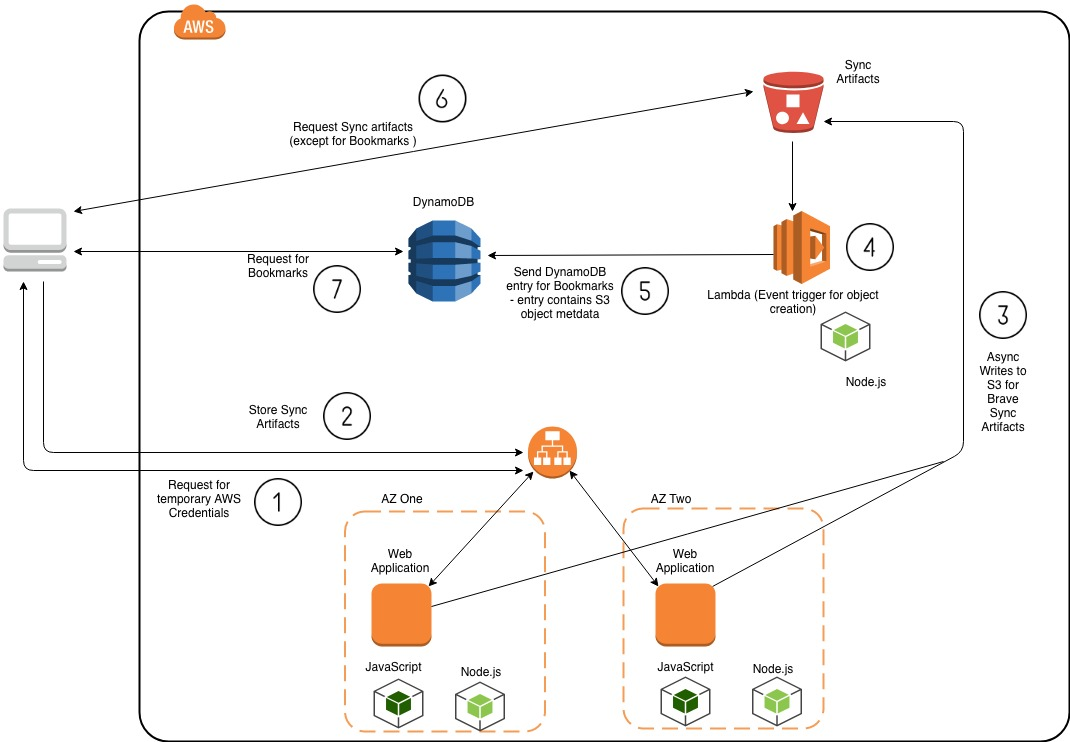
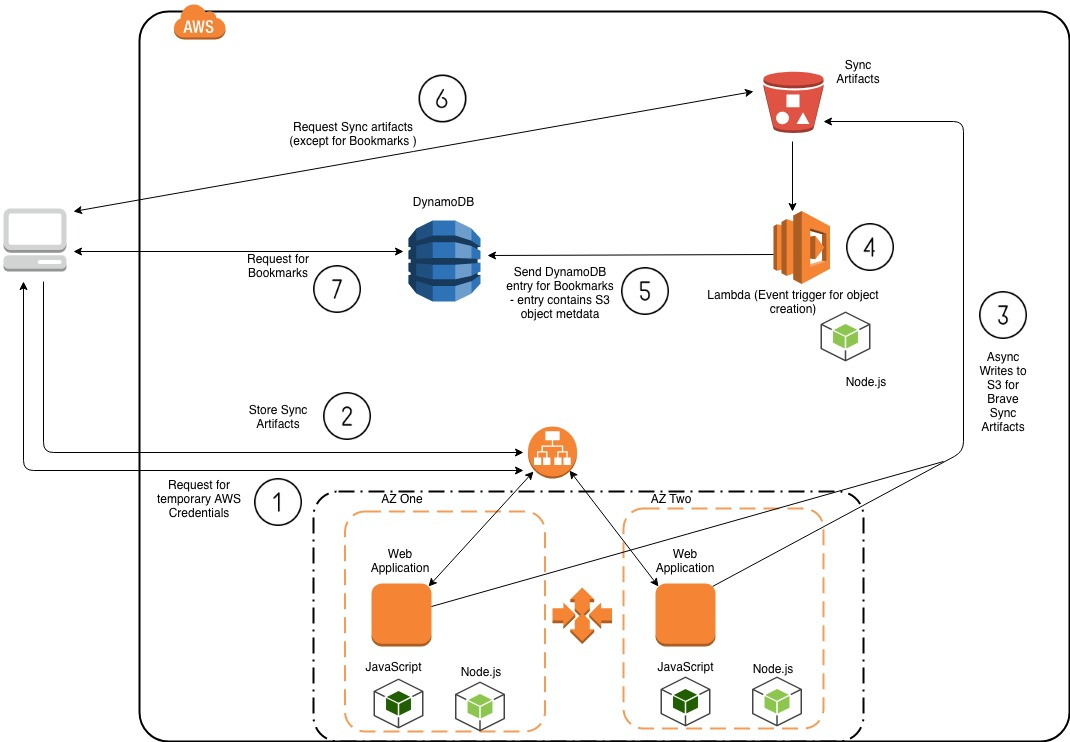
Updated suggestions 1 and 2 to include autoscaling groups

Changed region(s): [[0.3084, 0.9919, 0.8019, 1.0], [0.4935, 0.7749, 0.586, 0.8679]]

diff --git a/architecture/README.md b/architecture/README.md
@@ -25,7 +25,7 @@ The following are suggestions for improving the design.  The improvements begin 
 
 One of the main issues with the current implementation is the use of SQS to report back all the bookmarks of a given user's device.  Due to [SQS batch limitations](https://docs.aws.amazon.com/AWSSimpleQueueService/latest/SQSDeveloperGuide/sqs-batch-api-actions.html), the only option (due to the design of Brave Sync) is client-side buffering.  This too also has [limitations](https://docs.aws.amazon.com/AWSSimpleQueueService/latest/SQSDeveloperGuide/sqs-client-side-buffering-request-batching.html). 
 
-A much more scalable approach would be to use [DynamoDB](https://docs.aws.amazon.com/amazondynamodb/latest/developerguide/Limits.html#default-limits-capacity-units-provisioned-throughput) to handle bookmark sync requests. S3 would still be used for other Sync artifacts.
+A much more scalable approach would be to use [DynamoDB](https://docs.aws.amazon.com/amazondynamodb/latest/developerguide/Limits.html#default-limits-capacity-units-provisioned-throughput) to handle bookmark sync requests. S3 would still be used for other Sync artifacts. In addition, moving the EC2 instances to be part of an AutoScaling group would help with backend performance when writing to S3 when sync requests increase.
 
 ### Suggestion 2: Suggestion 1 + Using Kinesis Firehose to store sync artifacts in S3
 
